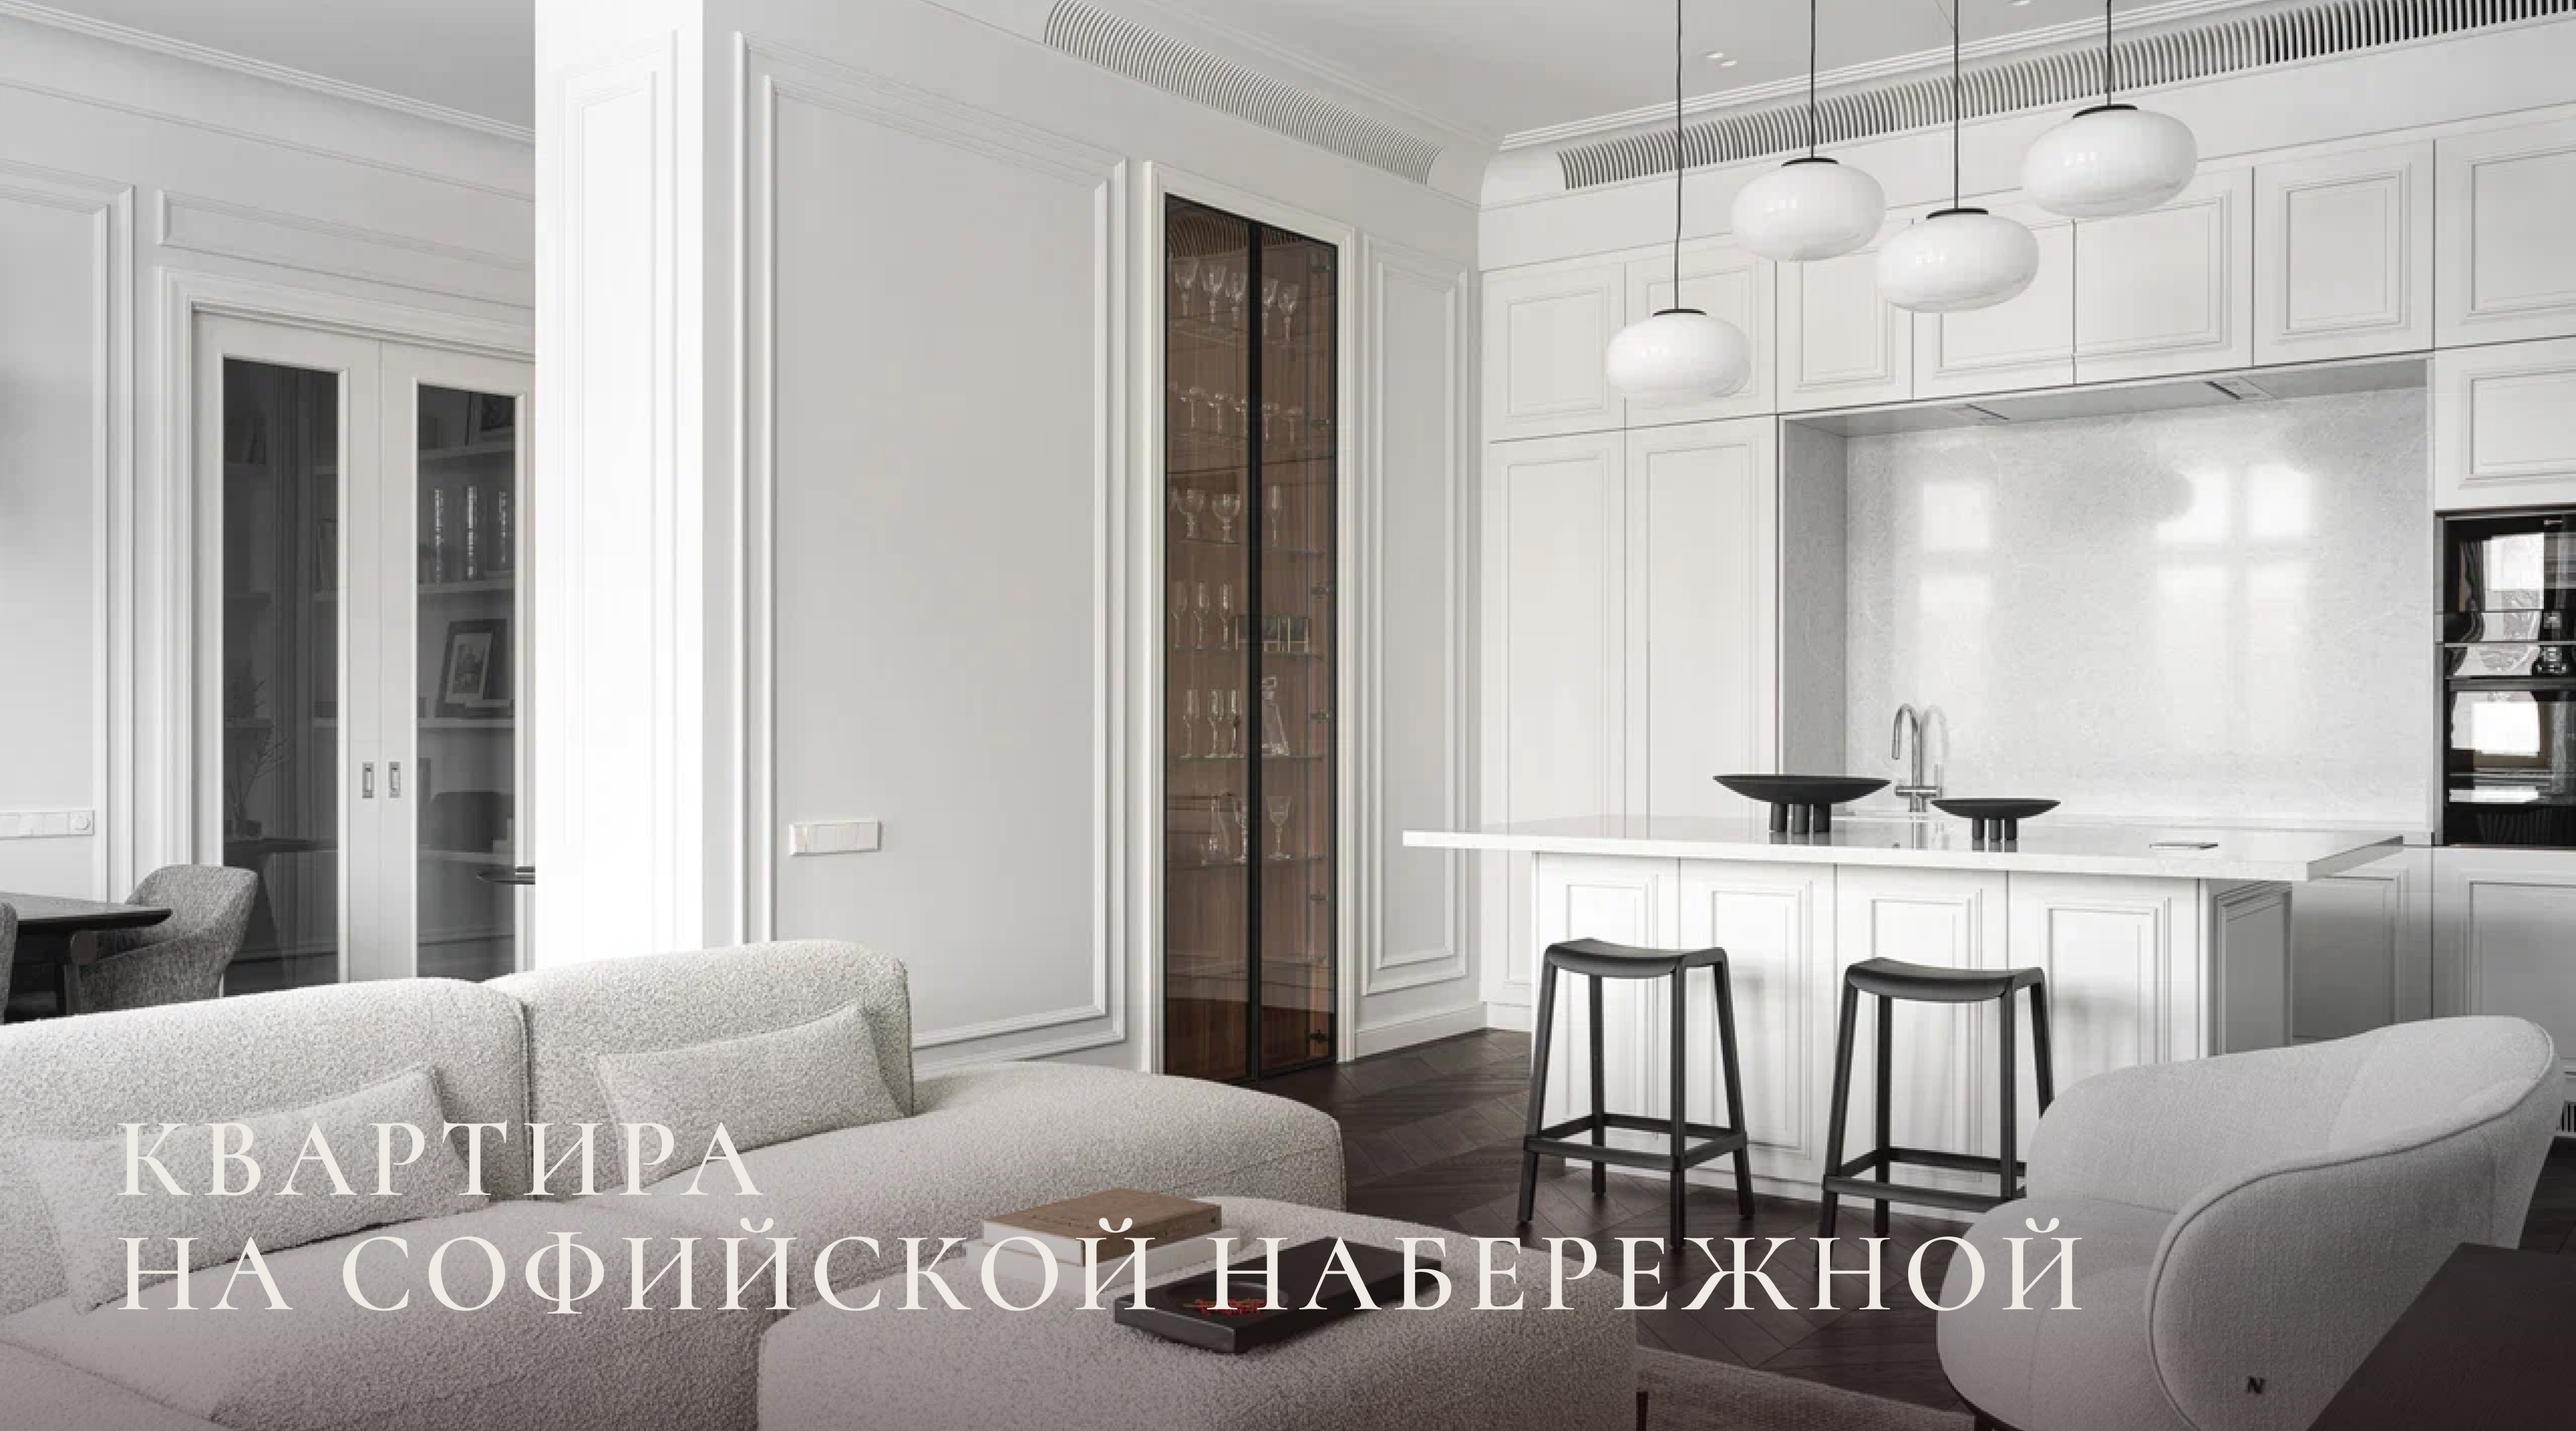
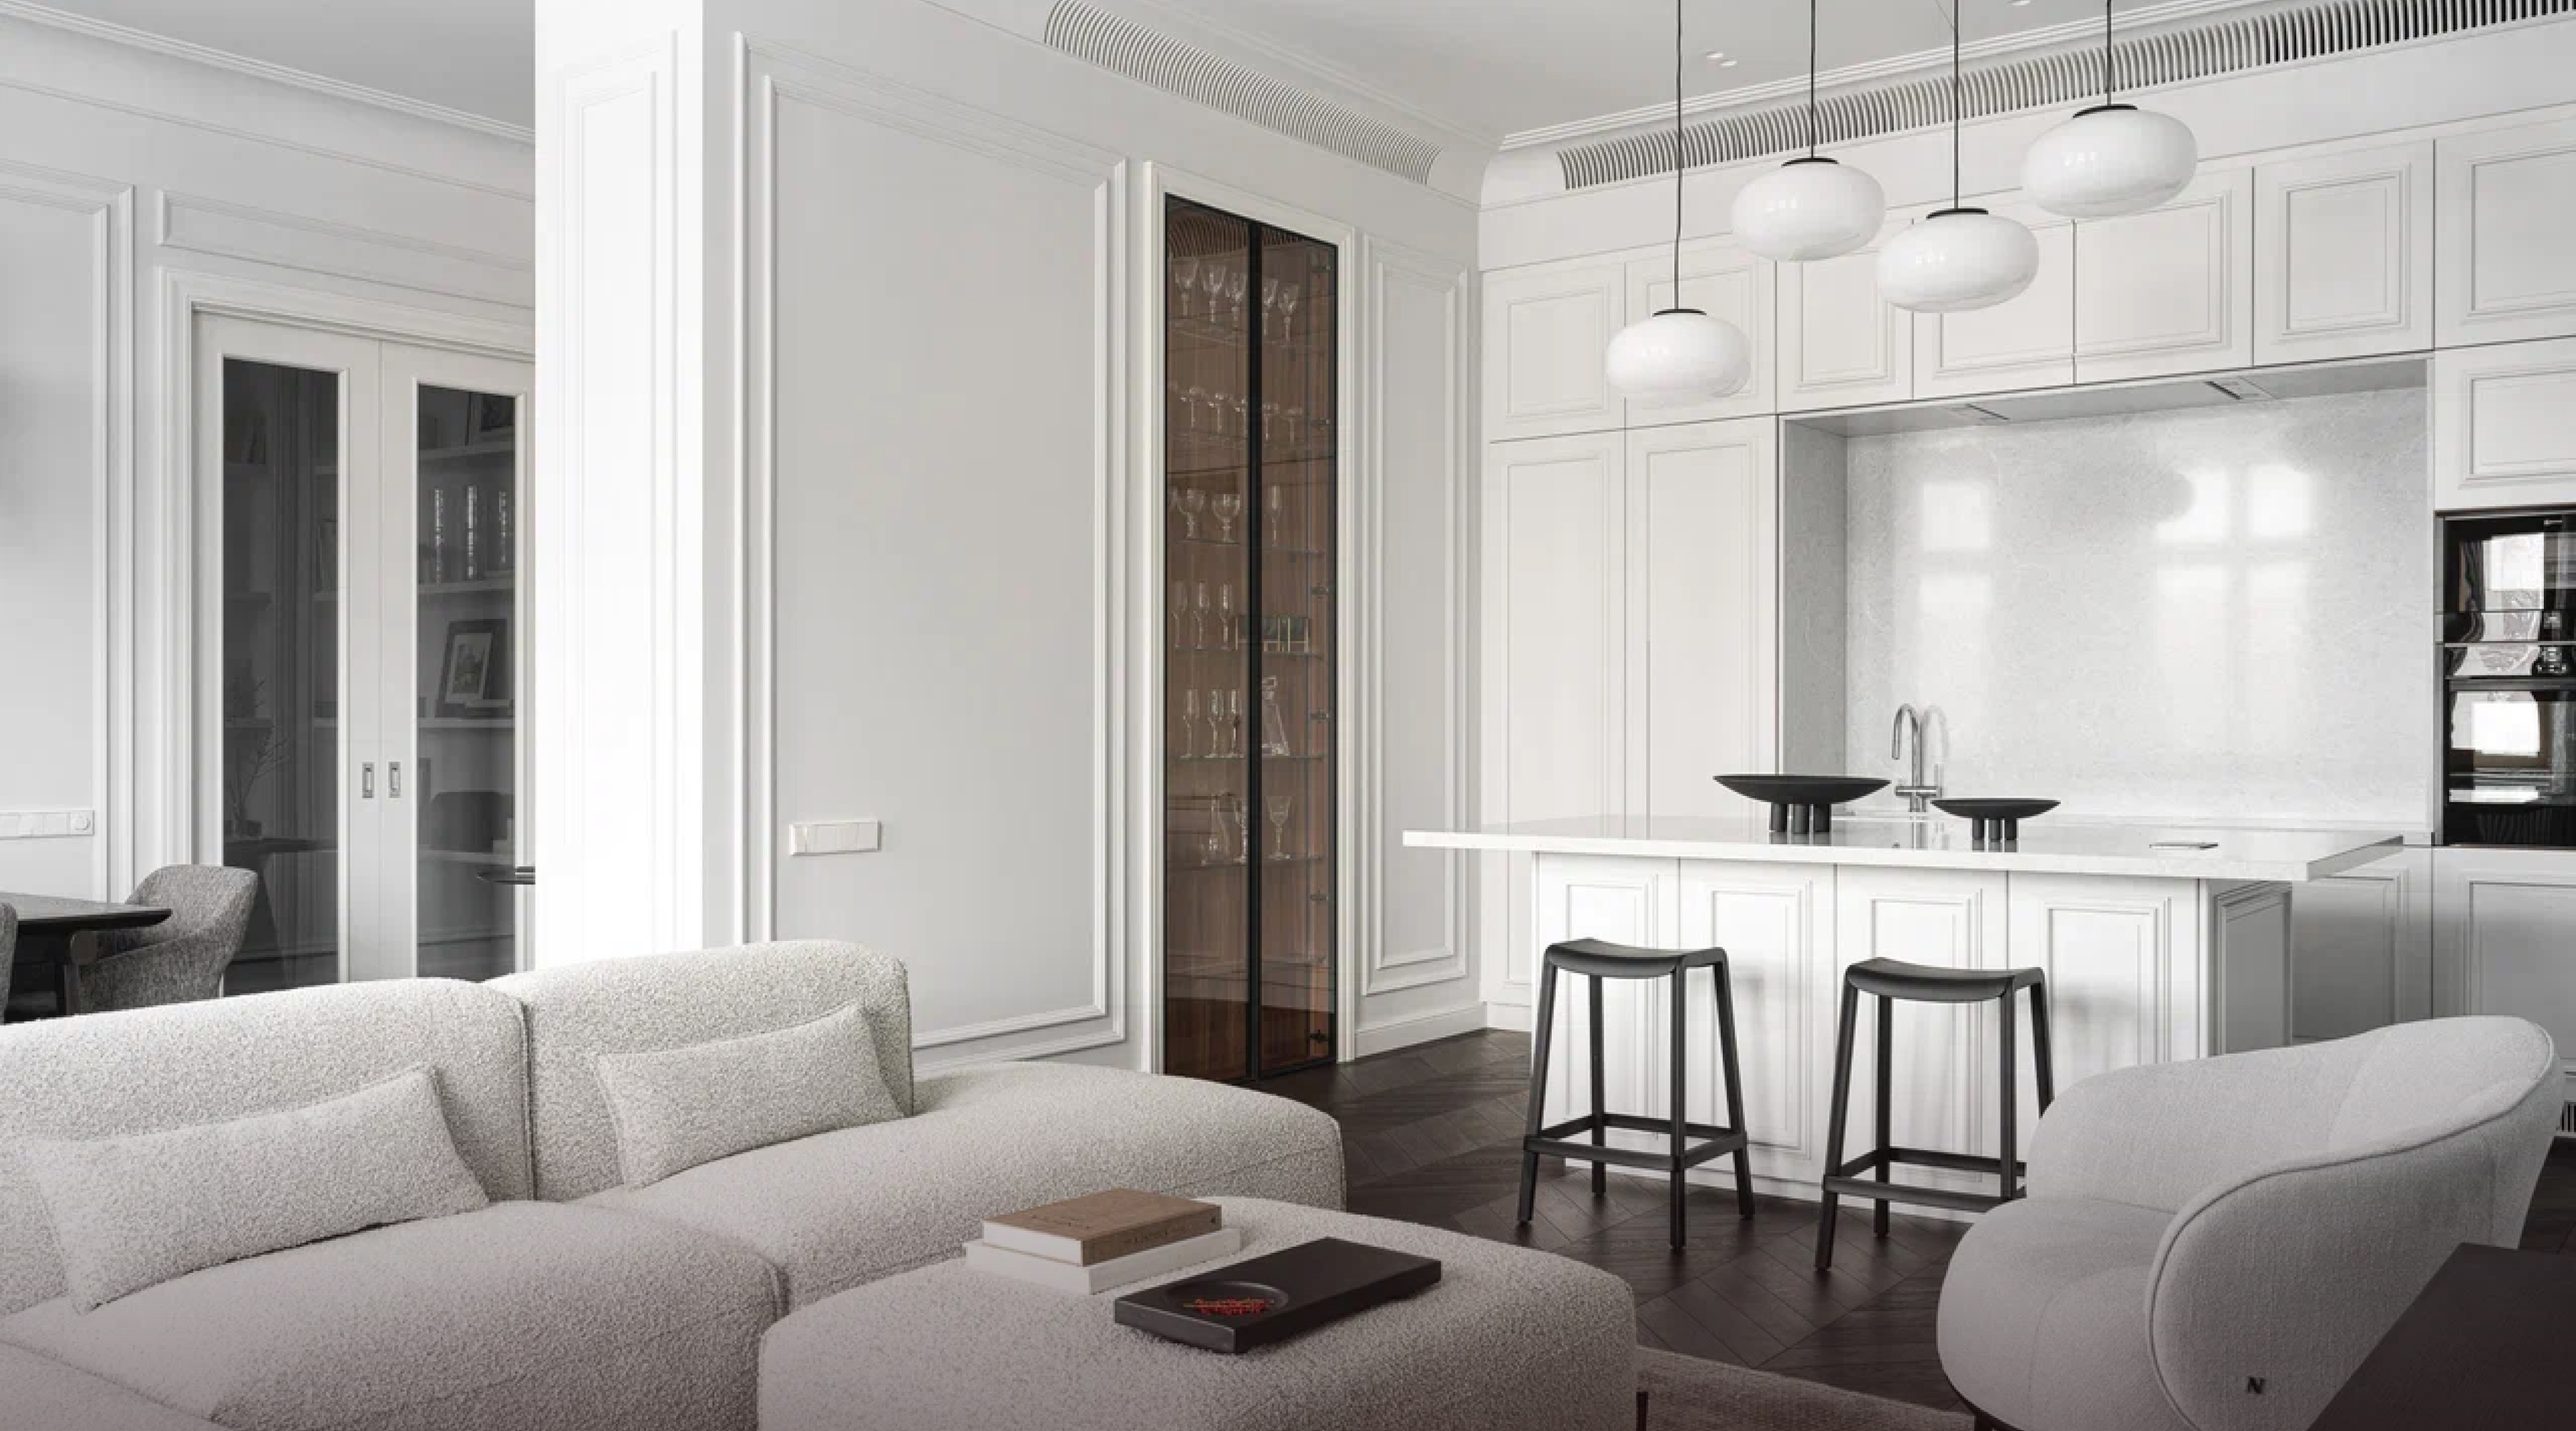
Fix new project heroes and mosaic spacing.
Re-export Little, Sofiyskaya, and HouseBoat heroes as photo plus gradient without baked-in titles, and add space before the end mosaic when a gallery image row comes last.

Changed region(s): [[0.0312, 0.7812, 0.8125, 0.9375]]

diff --git a/css/styles.css b/css/styles.css
@@ -1138,8 +1138,13 @@ body.lightbox-open .site-header {
 
   .gallery-copy + .gallery-row,
   .gallery-copy + .thumb-mosaic,
-  .gallery-copy + .mosaic-frame {
+  .gallery-copy + .mosaic-frame,
+  .gallery-row + .thumb-mosaic {
     margin-top: var(--stack-gap-l, 80px);
+  }
+
+  .gallery-row:has(+ .thumb-mosaic) {
+    margin-bottom: var(--stack-gap-l, 80px);
   }
 
   .team-grid,
@@ -1709,6 +1714,11 @@ body.lightbox-open .site-header {
     padding-bottom: 0;
   }
 
+  .gallery-row:has(+ .thumb-mosaic),
+  .gallery-row:has(+ .mosaic-frame) {
+    margin-bottom: var(--stack-gap-l);
+  }
+
   .gallery-row--full,
   .gallery-row--2,
   .gallery-row--2r,
@@ -2102,6 +2112,10 @@ body.lightbox-open .site-header {
   .project-detail .gallery-copy + .thumb-mosaic,
   .project-detail .gallery-copy + .mosaic-frame {
     margin-top: 0;
+  }
+
+  .project-detail .gallery-row:has(+ .thumb-mosaic) {
+    margin-bottom: var(--stack-gap-l);
   }
 
   /* Home: stack intro / values / projects with wireframe section gaps */
